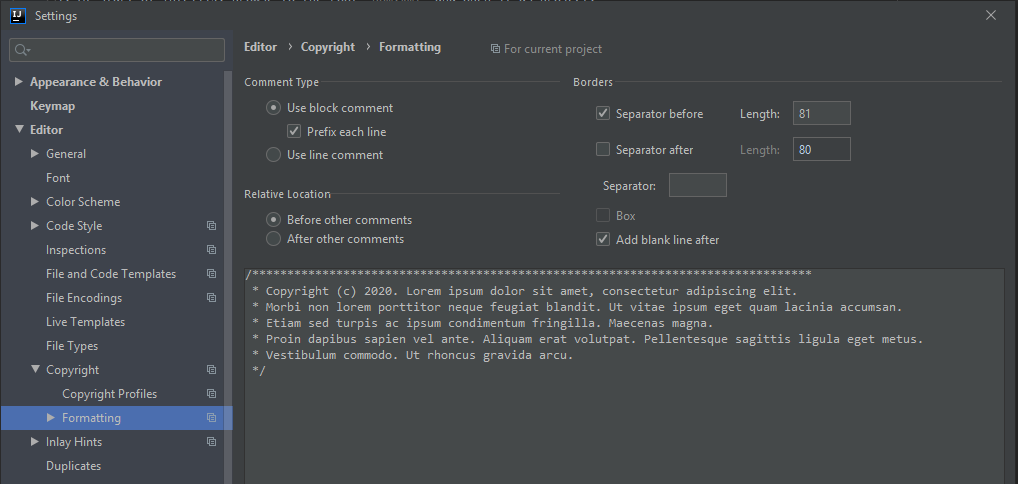
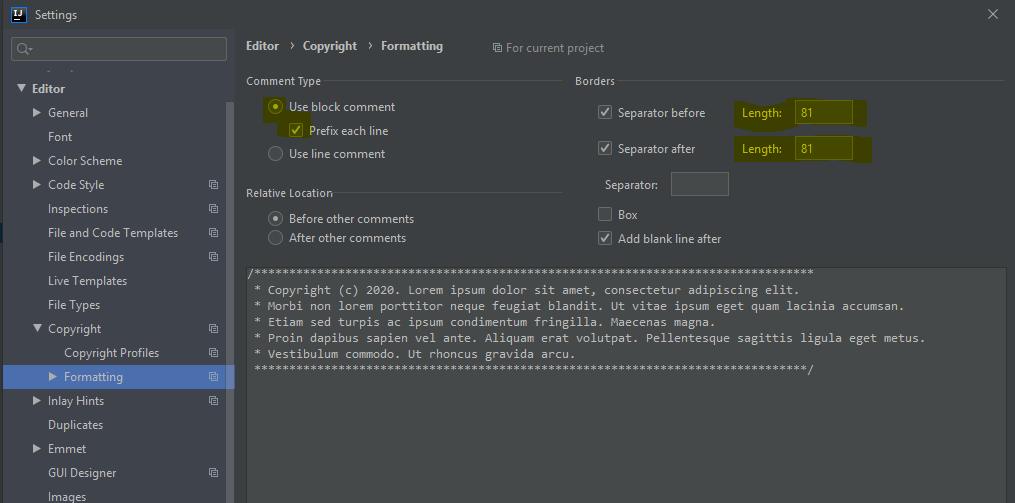
extend docu again

diff --git a/docs/dev/config/IntelliJ IDEA/README.md b/docs/dev/config/IntelliJ IDEA/README.md
@@ -31,9 +31,12 @@
     3. Click the plus
     4. Name "Atlas"
     5. Copyright text from [CodeHeaders](CodeHeaders.md)
+    
+    ![checkstyle](graphics/copyright-profile1.PNG)
 	6. Click "Apply"
     7. Go to Editor > Copyright > Formatting
     8. Adjust copyright formatting settings
+    
         ![checkstyle](graphics/formatting-copyright.PNG)
        - Change to `Use block comments` with `Prefix each line`
        - Set `Relative Location` to `Before other comments`
